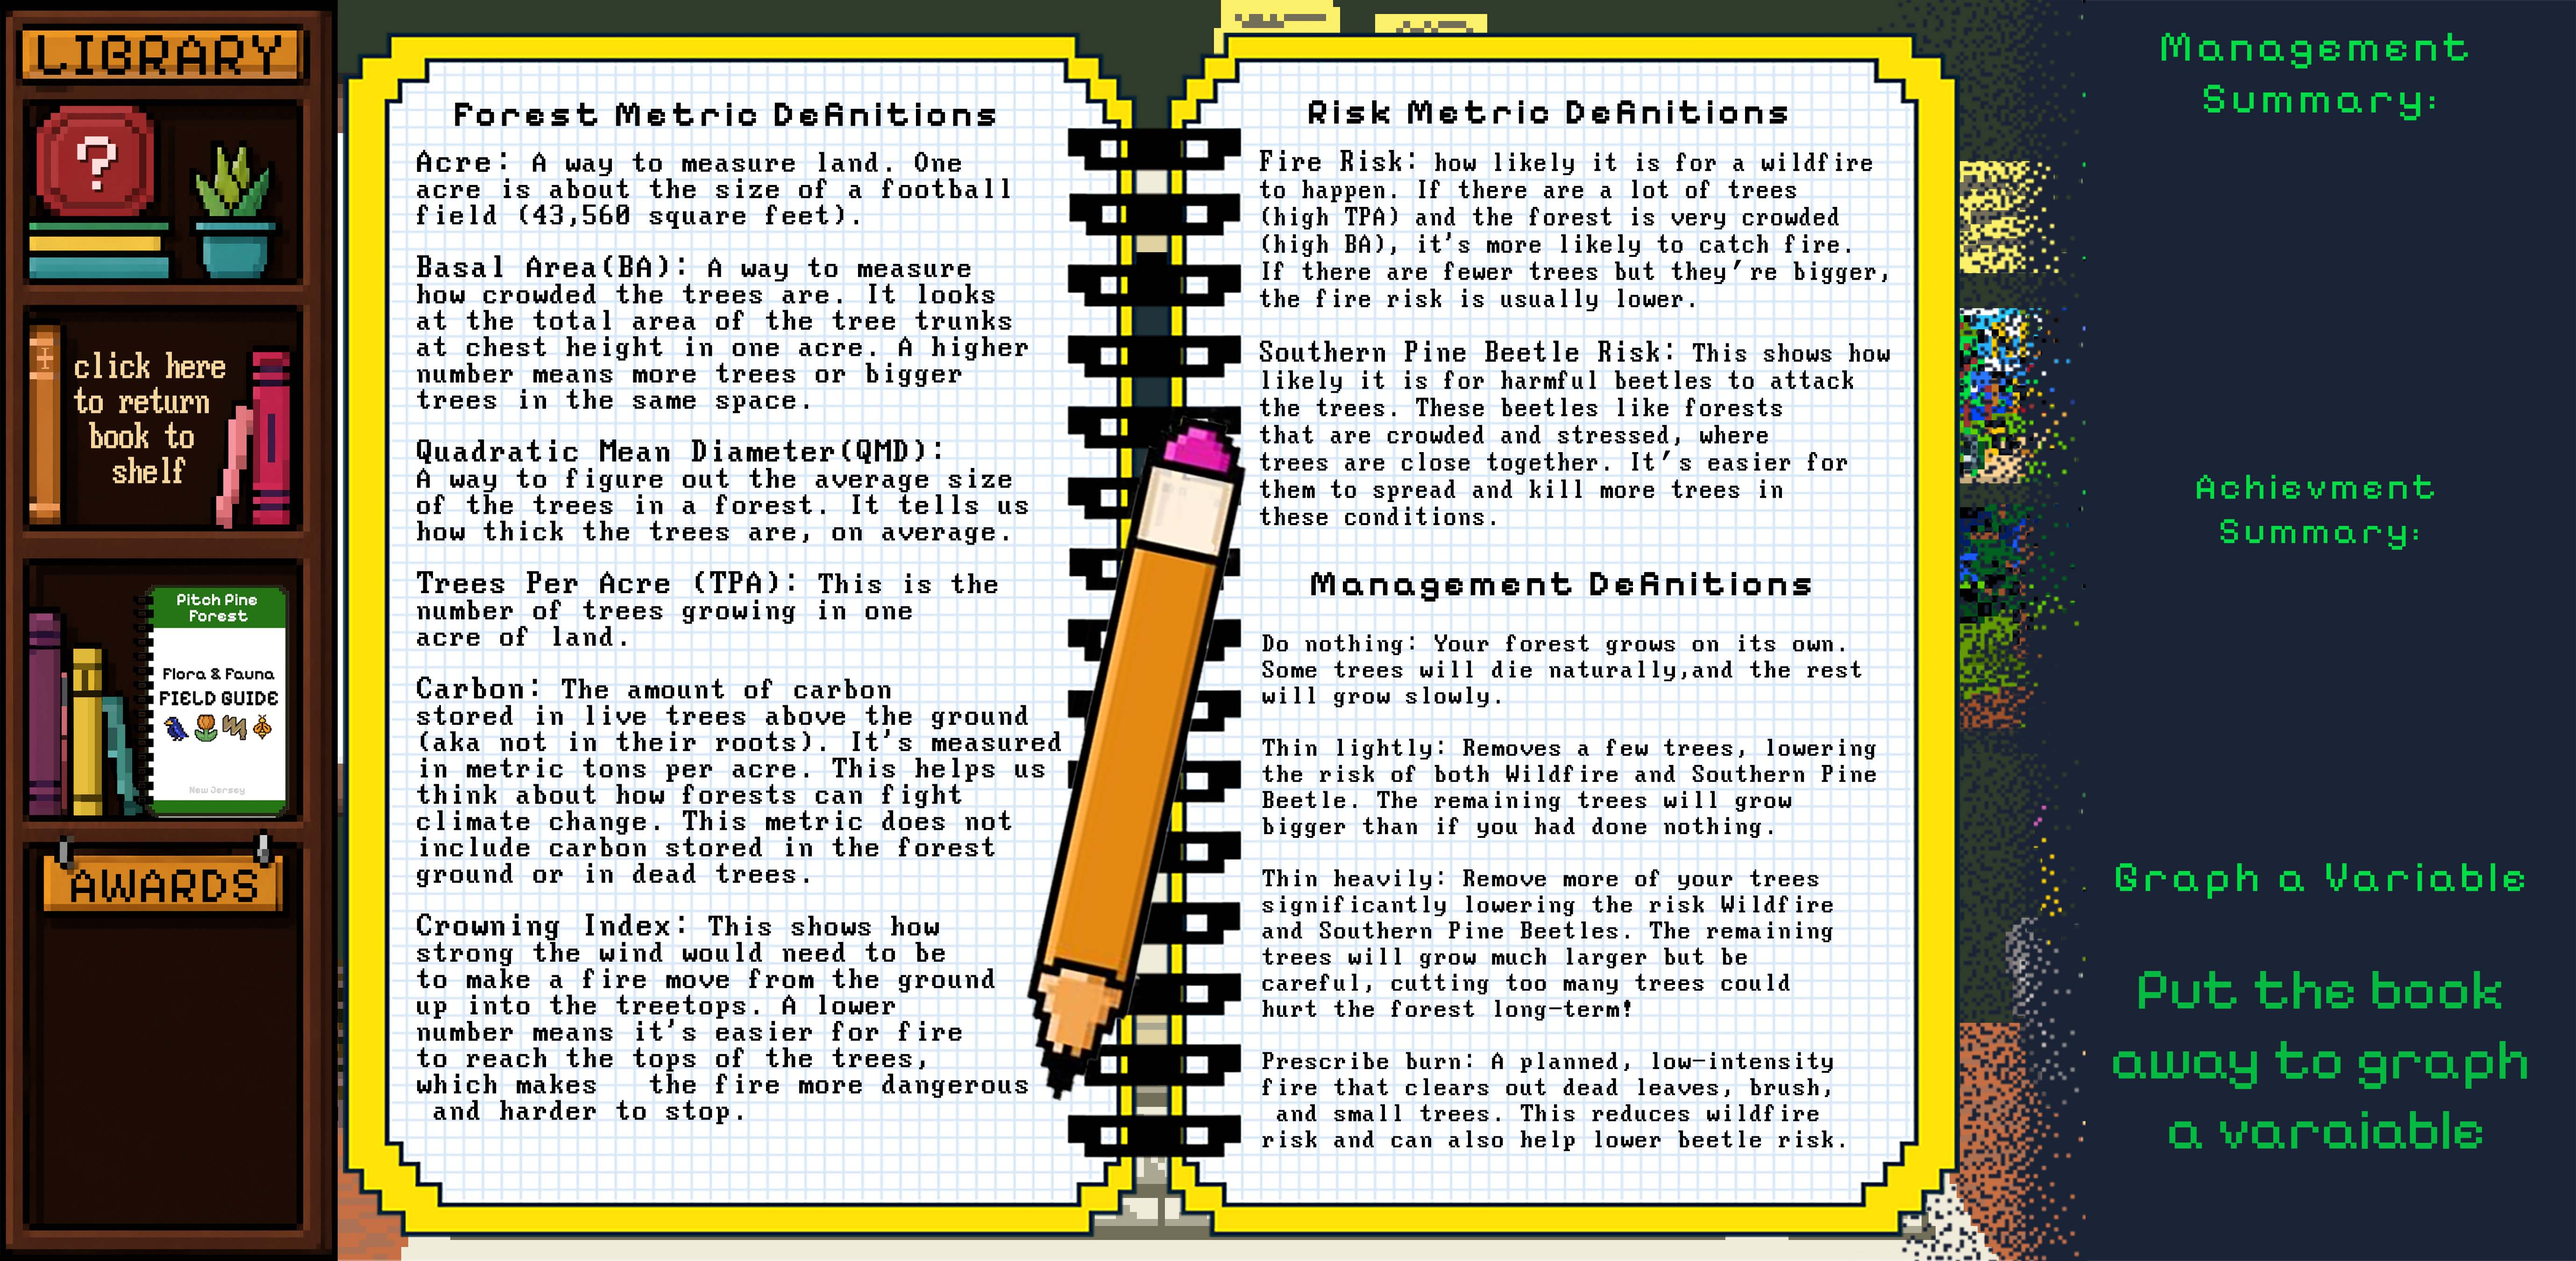
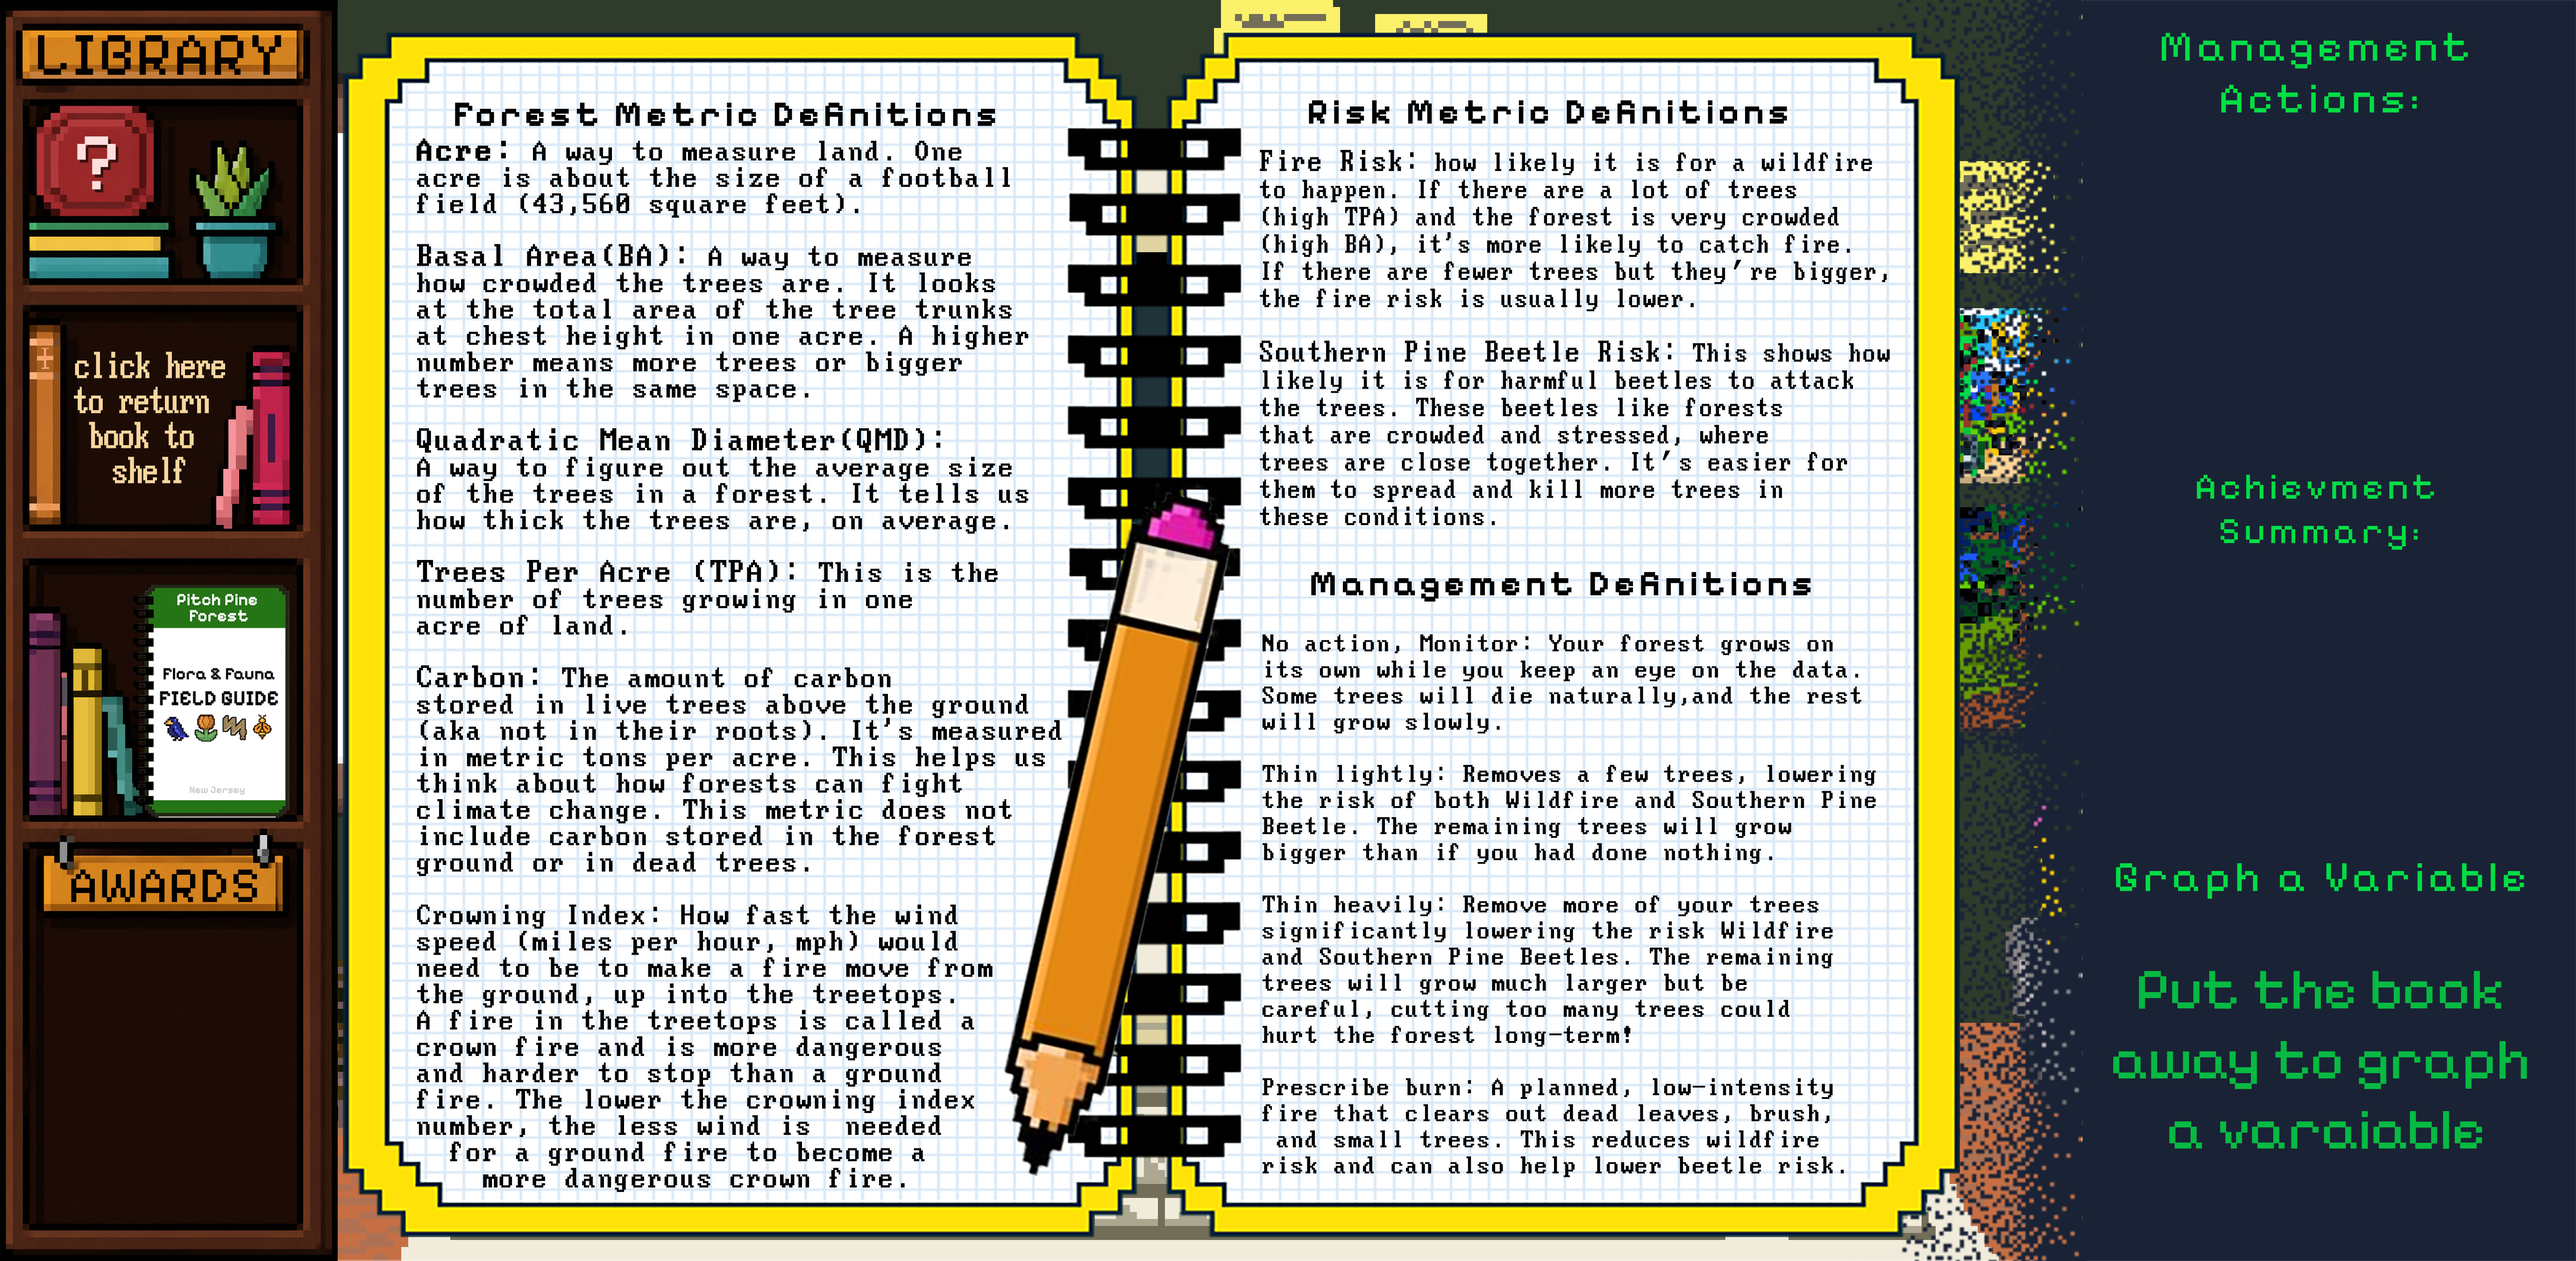
Change do nothing to no action, monitor and fix CI def
* fix stacking of cactus

* Update "Do nothing" and CI

Changing "Do northing" action to "No action, monitor" and adding units for crowning index with a better definition

* Update README.md

* Update README.md

* Update README.md

diff --git a/js/screens.js b/js/screens.js
@@ -658,7 +658,7 @@ function renderMetrics(parent = root) {
     <br>
     <div>Carbon per Acre: ${Number(status.carbon).toFixed(1)} Metric Tons/acre</div>
     <br>
-    <div>Crowning Index: ${Number(status.CI).toFixed(1)}</div>
+    <div>Crowning Index: ${Number(status.CI).toFixed(1)} mph</div>
     <span class="metric-risk ${riskClass(status.fire_risk)}">Fire Risk:<br>${status.fire_risk}</span>
     <span class="metric-risk ${riskClass(status.SPB_risk)}">Southern Pine Beetle Risk:<br>${status.SPB_risk}</span>
   `;

diff --git a/js/game.js b/js/game.js
@@ -1,5 +1,5 @@
 export const ACTIONS = {
-  "1": "Do nothing",
+  "1": "No action, Monitor",
   "2": "Thin lightly",
   "3": "Thin heavily",
   "4": "Prescribed burn",

diff --git a/README.md b/README.md
@@ -1,18 +1,16 @@
 # Pitch Pine Trail
 
-Pitch Pine Trail is a retro-style, browser-based forest-management game. It is a static vanilla JavaScript application designed to run locally or on GitHub Pages.
+Pitch Pine Trail is a retro-style single player game video game inspired by classic 1980s and 1990s games. The game features a nostalgic graphical interface and engaging gameplay mechanics that immerse players in a unique forest managment experience:
 
-## Project Structure
+You are in charge of a Pitch Pine Forest in Southern New Jersey! for the next 100 years, you will make choices on how to best care for your forest. Your choices will impact the way your trees grow, what plants and animals may choose to call your forest home and ultimately how at risk your forest is to detrimental impacts. Your goal? Leave the forest better than you found it for a future generation of managers!
 
-```text
-index.html                  # Browser app shell and Pages entry point
-assets/                     # Game images and audio
-css/
-js/
-.github/workflows/pages.yml # GitHub Pages deployment workflow
-```
+The game was designed and coded in-house featuring 100% human-made orginal artwork all created by New Jersey Forest Service employees.
 
-Repository planning, logs, and agent instructions remain separate from the browser app files.
+## Launch the Web App
+
+To play Pitch Pine Trail on the web go to:
+
+https://New-Jersey-Forest-Service.github.io/PitchPineTrailWeb/
 
 ## Run Locally
 
@@ -32,7 +30,20 @@ python -m http.server 8001
 
 Press `Ctrl+C` in the serving terminal to stop the server.
 
-## Deployment
+## Project Structure
+
+```text
+index.html                  # Browser app shell and Pages entry point
+assets/                     # Game images and audio
+css/
+js/
+.github/workflows/pages.yml # GitHub Pages deployment workflow
+```
+
+Repository planning, logs, and agent instructions remain separate from the browser app files.
+
+
+## Web Deployment
 
 The GitHub Pages workflow deploys the site files from the repository root, making `index.html` the public site root. Configure the repository Pages source to **GitHub Actions**. The site will be available at:
 
@@ -44,8 +55,3 @@ https://<organization>.github.io/<repository>/
 
 This project is licensed under the MIT License. See [LICENSE.txt](LICENSE.txt).
 
-## Web App
-
-To access the web app go to:
-
-https://New-Jersey-Forest-Service.github.io/PitchPineTrailWeb/
